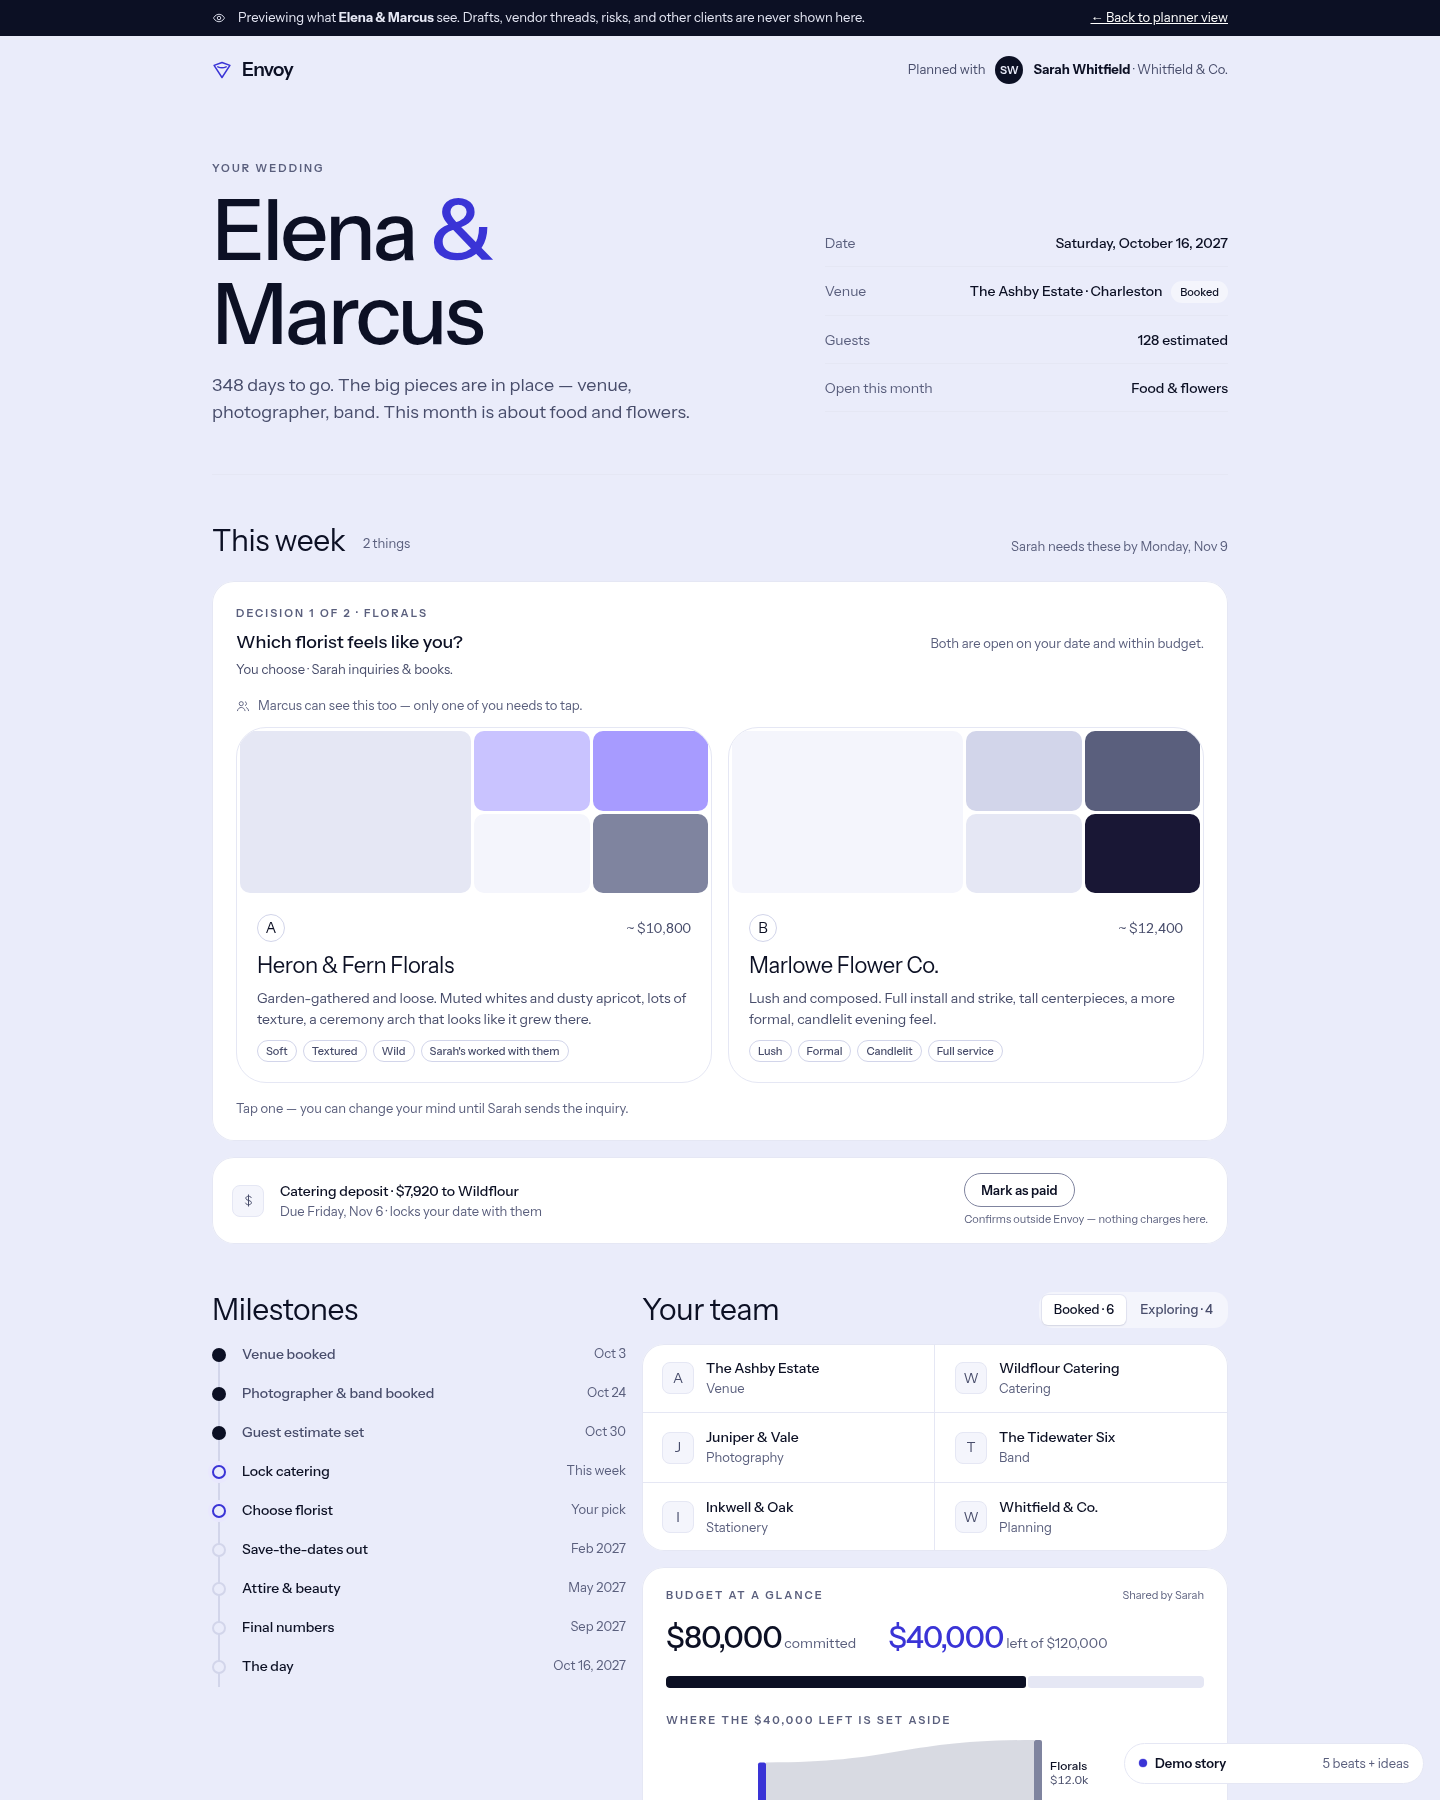
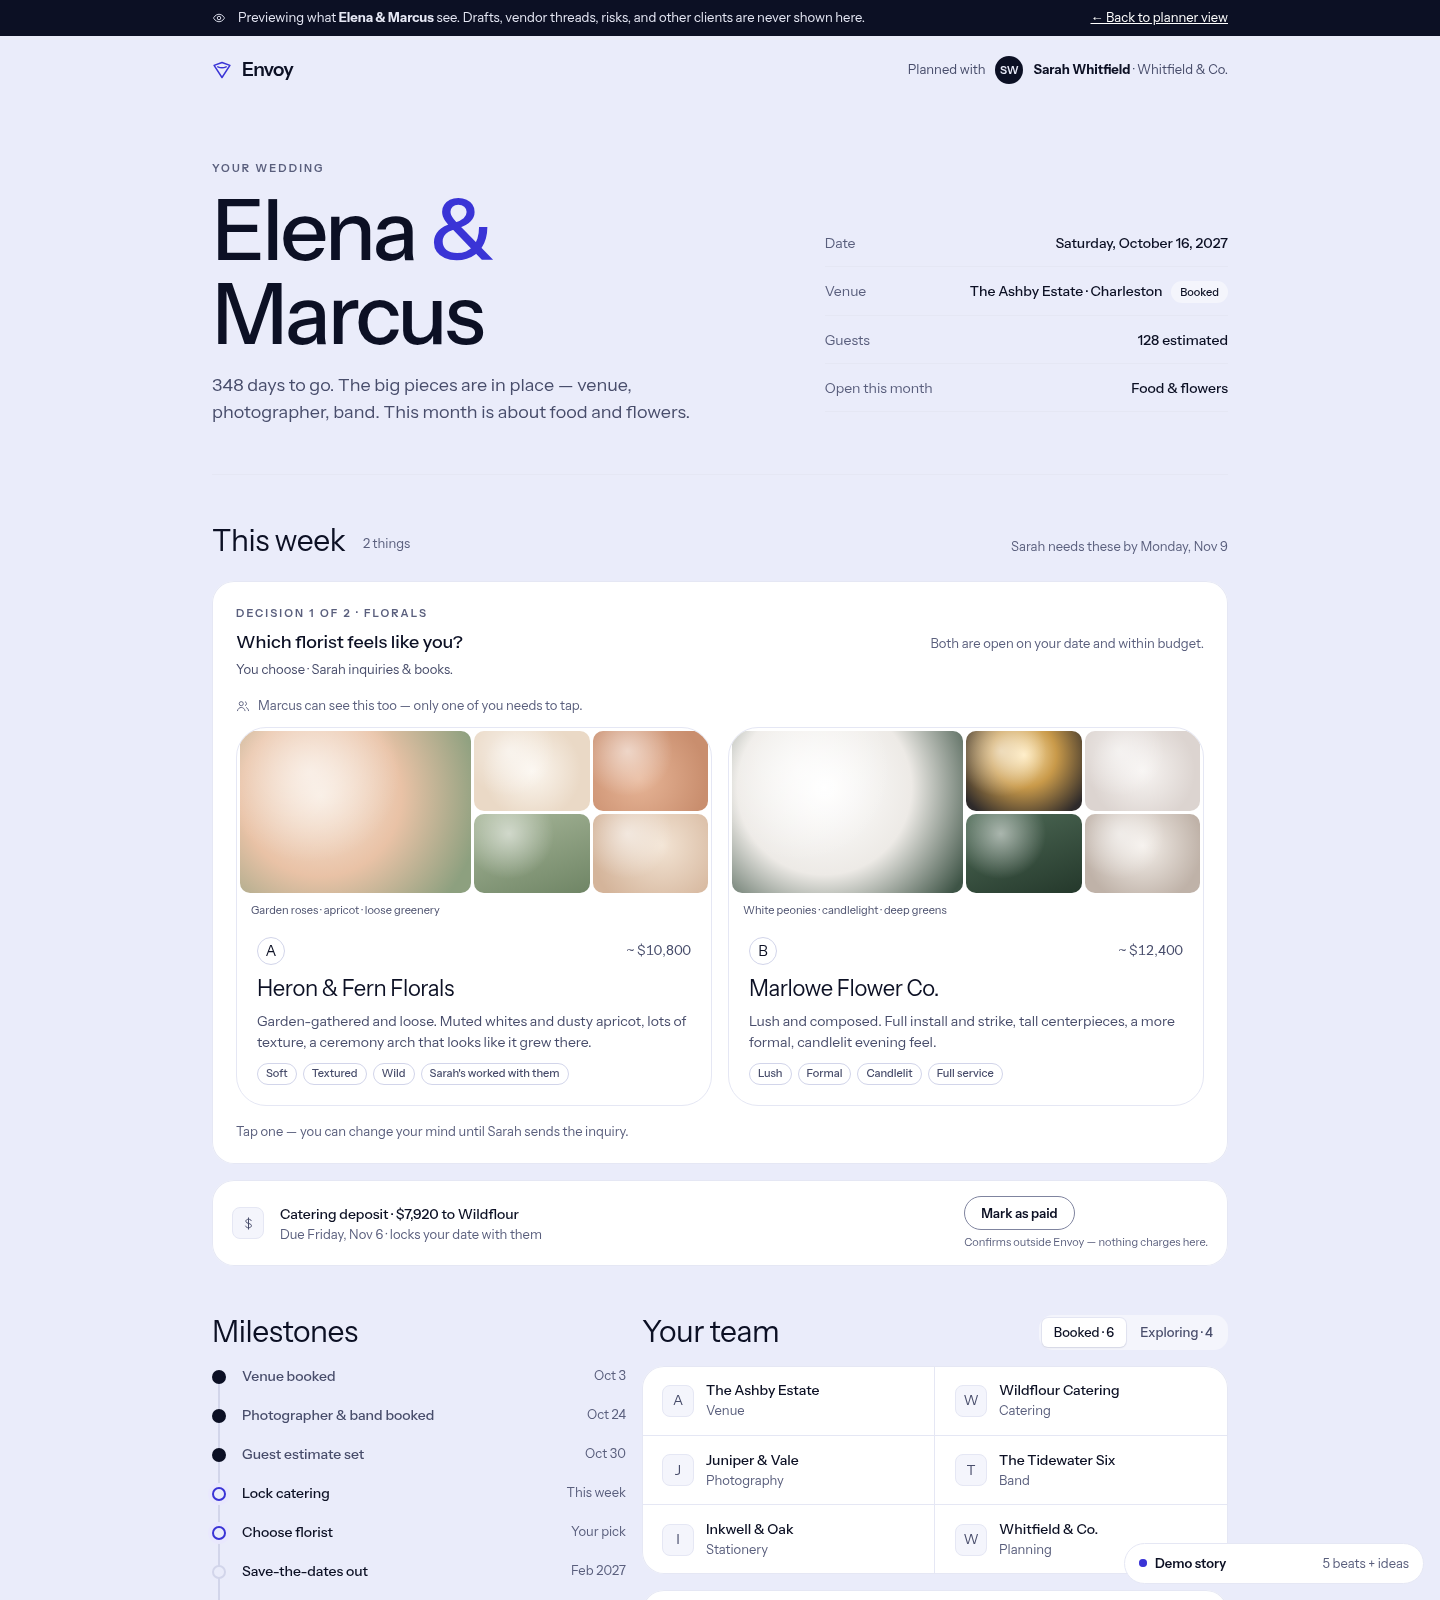
SCRUM-341: finish pass — moodboards, hub, Sankey contrast
Couple portal floral gradient moodboards with captions; landing/hub demo
links; chart-4 indigo-200 and Sankey link default opacity 0.42; STEPS
Finish pass and status colour notes. Preserve Round 2–5 nav.

diff --git a/envoy-2.0-mockups/landing/index.html b/envoy-2.0-mockups/landing/index.html
@@ -776,7 +776,7 @@ body{margin:0}
       <img id="ph-off" src="img/hero-offsite.jpg" alt="A company offsite being set up in a lodge — staff arranging round tables, place cards and a projector screen.">
     </div>
 
-    <div class="util"><a class="btn btn-chip btn-sm" href="#">
+    <div class="util"><a class="btn btn-chip btn-sm" href="../app/overview.html" style="margin-right:8px">Open the demo →</a><a class="btn btn-chip btn-sm" href="../app/portfolio.html">
       <svg viewBox="0 0 24 24" fill="none" aria-hidden="true"><circle cx="12" cy="8.5" r="3.6" stroke="currentColor" stroke-width="2"/><path d="M4.8 20c.9-3.4 3.7-5.3 7.2-5.3s6.3 1.9 7.2 5.3" stroke="currentColor" stroke-width="2" stroke-linecap="round"/></svg>
       Log in</a></div>
 
@@ -875,7 +875,7 @@ body{margin:0}
             <li><svg width="14" height="14" viewBox="0 0 24 24" fill="none" aria-hidden="true"><path d="M5 13l4 4L19 7" stroke="currentColor" stroke-width="2.8" stroke-linecap="round" stroke-linejoin="round"/></svg>Reach out to vendors yourself</li>
             <li><svg width="14" height="14" viewBox="0 0 24 24" fill="none" aria-hidden="true"><path d="M5 13l4 4L19 7" stroke="currentColor" stroke-width="2.8" stroke-linecap="round" stroke-linejoin="round"/></svg>Track every reply in one place</li>
           </ul>
-          <a class="btn btn-secondary btn-md cta" href="#">Get started free</a>
+          <a class="btn btn-secondary btn-md cta" href="waitlist.html">Get started free</a>
         </article>
 
         <article class="tier pop on-dark">
@@ -888,7 +888,7 @@ body{margin:0}
             <li><svg width="14" height="14" viewBox="0 0 24 24" fill="none" aria-hidden="true"><path d="M5 13l4 4L19 7" stroke="currentColor" stroke-width="2.8" stroke-linecap="round" stroke-linejoin="round"/></svg>Pro mode</li>
             <li><svg width="14" height="14" viewBox="0 0 24 24" fill="none" aria-hidden="true"><path d="M5 13l4 4L19 7" stroke="currentColor" stroke-width="2.8" stroke-linecap="round" stroke-linejoin="round"/></svg>Unlimited projects</li>
           </ul>
-          <a class="btn btn-primary btn-md cta" href="#">Choose Pro</a>
+          <a class="btn btn-primary btn-md cta" href="waitlist.html">Choose Pro</a>
         </article>
 
         <article class="tier">
@@ -902,7 +902,7 @@ body{margin:0}
             <li><svg width="14" height="14" viewBox="0 0 24 24" fill="none" aria-hidden="true"><path d="M5 13l4 4L19 7" stroke="currentColor" stroke-width="2.8" stroke-linecap="round" stroke-linejoin="round"/></svg>Multiple seats for your whole team</li>
             <li><svg width="14" height="14" viewBox="0 0 24 24" fill="none" aria-hidden="true"><path d="M5 13l4 4L19 7" stroke="currentColor" stroke-width="2.8" stroke-linecap="round" stroke-linejoin="round"/></svg>Priority vendor responses</li>
           </ul>
-          <a class="btn btn-secondary btn-md cta" href="#">Choose Agency</a>
+          <a class="btn btn-secondary btn-md cta" href="waitlist.html">Choose Agency</a>
         </article>
       </div>
     </div>
@@ -917,7 +917,7 @@ body{margin:0}
         <h2 id="h-biz">Do you want to win more work, without chasing leads?</h2>
         <p>Envoy puts your business in front of potential customers and helps you respond faster than the competition.</p>
         <div class="biz-cta">
-          <a class="btn btn-primary btn-lg" href="#">Join Envoy for Business</a>
+          <a class="btn btn-primary btn-lg" href="waitlist.html">Join Envoy for Business</a>
           <a class="btn btn-secondary btn-lg" href="#pricing">See pricing</a>
         </div>
       </div>
@@ -947,9 +947,10 @@ body{margin:0}
   <span>© 2026 Envoy · Your digital representative for outreach.</span>
   <span>this site was designed by a human.</span>
   <nav aria-label="Footer">
-    <a href="#">Start a project</a>
+    <a href="../app/overview.html">Start a project</a>
     <a href="#pricing">Pricing</a>
     <a href="#biz">For business</a>
+    <a href="waitlist.html">Waitlist</a>
     <a href="#">Privacy</a>
   </nav>
 </footer>
@@ -962,7 +963,7 @@ body{margin:0}
   <header class="top">
     <div class="nav">
       <button class="menu-btn" id="m-menu-btn" type="button" aria-label="Open menu" aria-expanded="false" aria-controls="m-menu"><i></i><i></i></button>
-      <a class="btn btn-chip btn-sm login" href="#">Log in</a>
+      <a class="btn btn-chip btn-sm login" href="../app/overview.html">Open demo</a>
     </div>
     <div class="marquee" aria-hidden="true">
       <div class="marquee-track"><span>Envoy, bringing the joy back to planning.</span><span>Envoy, bringing the joy back to planning.</span></div>
@@ -977,7 +978,7 @@ body{margin:0}
     <a href="#m-start" data-close>Start a project</a>
     <a href="#m-pricing" data-close>Pricing</a>
     <a href="#m-business" data-close>For business</a>
-    <a class="dim" href="#" data-close>Log in</a>
+    <a class="dim" href="../app/overview.html" data-close>Open the demo</a>
     <span class="hint">Tap anywhere to close</span>
   </nav>
 
@@ -1001,9 +1002,9 @@ body{margin:0}
       <p class="biz-p">Envoy puts your business in front of potential customers and helps you respond faster than the competition.</p>
       <div class="deck deck-b" id="m-deck-b" role="button" tabindex="0" aria-describedby="m-biz-live"></div>
       <p class="sr" id="m-biz-live" aria-live="polite"></p>
-      <div class="biz-ctas"><a class="btn btn-primary btn-lg" href="#">Join Envoy for Business</a><a class="btn btn-secondary btn-lg" href="#m-pricing">See pricing</a></div>
+      <div class="biz-ctas"><a class="btn btn-primary btn-lg" href="waitlist.html">Join Envoy for Business</a><a class="btn btn-secondary btn-lg" href="#m-pricing">See pricing</a></div>
       <footer>
-        <nav aria-label="Footer"><a class="hit-extend" href="#m-start">Start a project</a><a class="hit-extend" href="#m-pricing">Pricing</a><a class="hit-extend" href="#m-business">For business</a><a class="hit-extend" href="#">Privacy</a></nav>
+        <nav aria-label="Footer"><a class="hit-extend" href="#m-start">Start a project</a><a class="hit-extend" href="#m-pricing">Pricing</a><a class="hit-extend" href="#m-business">For business</a><a class="hit-extend" href="waitlist.html">Waitlist</a><a class="hit-extend" href="#">Privacy</a></nav>
         <span>© 2026 Envoy · Your digital representative for outreach.</span>
         <span>this site was designed by a human.</span>
       </footer>
@@ -1187,7 +1188,7 @@ body{margin:0}
     var body=el('div','tier-body'); body.id='m-tier-'+t.id;
     body.appendChild(el('p','tier-desc',t.desc));
     var ul=el('ul'); t.feat.forEach(function(f){ ul.appendChild(el('li',null,f)); }); body.appendChild(ul);
-    var cta=el('a','btn btn-md tier-cta',t.cta); cta.href='#start'; body.appendChild(cta);
+    var cta=el('a','btn btn-md tier-cta',t.cta); cta.href='waitlist.html'; body.appendChild(cta);
     row.appendChild(head); row.appendChild(body);
     row.addEventListener('click',function(){ if(open!==t.id){ open=t.id; paintTiers(); } });
     tiersEl.appendChild(row); rows.push({t:t,row:row,head:head,cta:cta});

diff --git a/envoy-2.0-mockups/app/couple-portal.html b/envoy-2.0-mockups/app/couple-portal.html
@@ -33,7 +33,9 @@
   .opt.is-picked { border-color: var(--ink); box-shadow: 0 0 0 1px var(--ink); }
   .opt.is-other { opacity: .55; }
   .mood { height: 168px; display: grid; grid-template-columns: 2fr 1fr 1fr; grid-template-rows: 1fr 1fr; gap: 3px; padding: 3px; }
-  .mood span { border-radius: 10px; }
+  .mood span { border-radius: 10px; position: relative; overflow: hidden; }
+  .mood span::after { content: ""; position: absolute; inset: 0; background: radial-gradient(circle at 30% 25%, rgba(255,255,255,.55), transparent 45%); }
+  .mood-cap { font-size: var(--text-xs, 12px); color: var(--muted); padding: 6px 14px 0; }
   .mood span:first-child { grid-row: span 2; }
   .opt .b { padding: 18px 20px 20px; }
   .opt .letter { font-family: var(--font-display); font-size: 15px; width: 28px; height: 28px; border-radius: 50%; border: 1px solid var(--line-strong); display: inline-grid; place-items: center; }
@@ -100,14 +102,14 @@
       <div class="both"><i data-i="users" data-s="14"></i>Marcus can see this too — only one of you needs to tap.</div>
       <div class="ab">
         <button class="opt" data-pick="Heron &amp; Fern Florals">
-          <div class="mood"><span style="background:#E5E7F4"></span><span style="background:#C9C3FF"></span><span style="background:#A79BFF"></span><span style="background:#F4F5FC"></span><span style="background:#7F849F"></span></div>
+          <div class="mood" role="img" aria-label="Moodboard A: garden roses in muted white and dusty apricot, loose greenery, textured ribbon"><span style="background:radial-gradient(circle at 35% 40%,#F6E6D8,#E9C2A6 45%,#8DA07F 90%)"></span><span style="background:radial-gradient(circle at 50% 50%,#FBF6EF,#EAD9C6 70%)"></span><span style="background:radial-gradient(circle at 40% 60%,#E7B597,#C98E6E 80%)"></span><span style="background:linear-gradient(160deg,#A8B79A,#6F8565)"></span><span style="background:radial-gradient(circle at 60% 40%,#F2E3D3,#D4B49A 85%)"></span></div><div class="mood-cap">Garden roses · apricot · loose greenery</div>
           <div class="b"><div class="row-between"><span class="letter">A</span><span class="num muted">~ $10,800</span></div>
             <h3>Heron &amp; Fern Florals</h3>
             <p class="muted mt-2">Garden-gathered and loose. Muted whites and dusty apricot, lots of texture, a ceremony arch that looks like it grew there.</p>
             <div class="words"><span class="chip chip-outline">Soft</span><span class="chip chip-outline">Textured</span><span class="chip chip-outline">Wild</span><span class="chip chip-outline">Sarah's worked with them</span></div></div>
         </button>
         <button class="opt" data-pick="Marlowe Flower Co.">
-          <div class="mood"><span style="background:#F4F5FC"></span><span style="background:#D2D5EA"></span><span style="background:#5A5F7D"></span><span style="background:#E5E7F4"></span><span style="background:#191735"></span></div>
+          <div class="mood" role="img" aria-label="Moodboard B: lush white peonies and orchids, tall candlelit centerpieces, deep green foliage"><span style="background:radial-gradient(circle at 40% 35%,#FFFFFF,#EDEAE6 50%,#3E5446 95%)"></span><span style="background:radial-gradient(circle at 50% 30%,#FFE9B8,#C99A4A 40%,#2E2A2A 90%)"></span><span style="background:radial-gradient(circle at 50% 50%,#F7F4F2,#DCD4D0 75%)"></span><span style="background:linear-gradient(160deg,#4F6B57,#24382B)"></span><span style="background:radial-gradient(circle at 50% 40%,#F4EFEA,#BFB2A8 80%)"></span></div><div class="mood-cap">White peonies · candlelight · deep greens</div>
           <div class="b"><div class="row-between"><span class="letter">B</span><span class="num muted">~ $12,400</span></div>
             <h3>Marlowe Flower Co.</h3>
             <p class="muted mt-2">Lush and composed. Full install and strike, tall centerpieces, a more formal, candlelit evening feel.</p>

diff --git a/envoy-2.0-mockups/index.html b/envoy-2.0-mockups/index.html
@@ -1,13 +1,15 @@
 <!doctype html>
 <html lang="en"><head><meta charset="utf-8"><meta name="viewport" content="width=device-width, initial-scale=1"><title>Envoy 2.0 mockups</title>
 <link rel="stylesheet" href="assets/tokens.css"><link rel="stylesheet" href="assets/components.css">
-<style>.wrap2{max-width:760px;margin:0 auto;padding:80px 32px}.idx a{display:flex;justify-content:space-between;align-items:baseline;padding:18px 0;border-bottom:1px solid var(--line);text-decoration:none;color:var(--ink)}.idx a:hover .t{color:var(--clay)}.idx .t{font-family:var(--font-display);font-size:24px}.idx .d{color:var(--ink-3);font-size:var(--text-sm)}</style></head>
+<style>.wrap2{max-width:760px;margin:0 auto;padding:80px 32px}.idx a{display:flex;justify-content:space-between;align-items:baseline;padding:18px 0;border-bottom:1px solid var(--line);text-decoration:none;color:var(--ink)}.idx a:hover .t{color:var(--indigo-600)}.idx .t{font-family:var(--font-display);font-size:24px}.idx .d{color:var(--muted);font-size:var(--text-sm)}</style></head>
 <body data-rail="off"><div class="wrap2">
 <div class="eyebrow">SCRUM-341 · static mockups · design system &amp; landing from hello-envoy/envoy-redesign</div>
 <h1 class="display display-3 mt-3">Envoy 2.0</h1>
 <p class="muted mt-3 text-lg">Overview · Contacts · Project, with the Couple portal kept separate. Start with the Overview and follow the demo-story rail in the bottom-right corner.</p>
-<div class="idx mt-8">
+<div class="eyebrow mt-8" style="margin-top:40px">Demo path: Landing → Overview → Contacts → Project → Couple portal</div>
+<div class="idx mt-3">
 <a href="landing/index.html"><span class="t">Landing</span><span class="d">Finished redesign landing · hello-envoy/envoy-redesign</span></a>
+<a href="landing/waitlist.html"><span class="t">Waitlist</span><span class="d">Landing waitlist sign-up (static)</span></a>
 <a href="app/overview.html"><span class="t">Overview</span><span class="d">Countdown, attention, vendors, budget, Sankey</span></a>
 <a href="app/contacts.html"><span class="t">Contacts</span><span class="d">14 types, directory attach, threads, florist radar</span></a>
 <a href="app/project.html"><span class="t">Project</span><span class="d">Milestones, this week, timeline, risks &amp; holds, sheet</span></a>

diff --git a/envoy-2.0-mockups/assets/app.js b/envoy-2.0-mockups/assets/app.js
@@ -182,7 +182,7 @@
       const s = byId[l.source], t = byId[l.target], w = l.value * k;
       const sx = s.x + opt.nodeW, tx = t.x, sy = s.y + s.so, ty = t.y + t.to; s.so += w; t.to += w;
       const mx = (sx + tx) / 2, col = l.color || t.color || css("--chart-4");
-      svg += `<path class="link" d="M${sx},${sy}C${mx},${sy} ${mx},${ty} ${tx},${ty}L${tx},${ty + w}C${mx},${ty + w} ${mx},${sy + w} ${sx},${sy + w}Z" fill="${col}" opacity="${l.opacity || 0.28}"><title>${s.label} → ${t.label}: ${opt.fmt(l.value)}</title></path>`;
+      svg += `<path class="link" d="M${sx},${sy}C${mx},${sy} ${mx},${ty} ${tx},${ty}L${tx},${ty + w}C${mx},${ty + w} ${mx},${sy + w} ${sx},${sy + w}Z" fill="${col}" opacity="${l.opacity || 0.42}"><title>${s.label} → ${t.label}: ${opt.fmt(l.value)}</title></path>`;
     });
     data.nodes.forEach((n) => {
       const v = Math.max(n.inV, n.outV);

diff --git a/envoy-2.0-mockups/assets/tokens.css b/envoy-2.0-mockups/assets/tokens.css
@@ -96,7 +96,7 @@
 
   /* charts: monochrome ink + indigo ramp, remainder = line */
   --chart-1: var(--ink);       --chart-2: var(--indigo-600); --chart-3: var(--indigo-300);
-  --chart-4: var(--line-3);    --chart-5: var(--indigo-100); --chart-6: var(--line-2);
+  --chart-4: var(--indigo-200);    --chart-5: var(--indigo-100); --chart-6: var(--line-2);
   --chart-7: var(--biz);       --chart-8: var(--line);
 
   --font-display: var(--f); --font-sans: var(--f);

diff --git a/envoy-2.0-mockups/STEPS.md b/envoy-2.0-mockups/STEPS.md
@@ -198,4 +198,11 @@ The "Linen" notes in the sections above are history. Where they conflict with th
 - **`design-system/index.html`**: a living page generated from system.css. It shows swatches with contrast, the ramp, type, spacing, the buttons from 07-buttons, the on-dark variants, kit parts, and the check.mjs rules.
 - **`index.html`, `VISION.md`, `DEMO-WALKTHROUGH.md`**: now credit envoy-redesign.
 - **Verified**: served with `python3 -m http.server` and screenshotted in headless Chrome at 1440px into `screenshots/`. No 404s.
-- **Known gap**: the moodboard swatches on the couple portal (florist A/B) were remapped to indigo and greys. They were meant to suggest real flower colours, so they should become photos.
+## Finish pass (Nov 2, 2026)
+
+- **Couple portal florist A/B**: the indigo and grey swatches are now soft gradient tiles that look like photos (roses and apricot with greenery for A; white peonies, candlelight and deep greens for B). These tones belong to the image content and aren't brand colours. They're never the only cue: each moodboard has `role="img"` with descriptive alt text and a visible caption.
+- **Landing links**: an "Open the demo →" chip goes to `../app/overview.html`. "Log in" goes to the portfolio on desktop and the Overview on mobile. "Start a project" in the footer goes to the Overview. The pricing and business CTAs go to `waitlist.html`, and the footer now has a Waitlist link. The layout is unchanged.
+- **Status colours**: the redesign defines only `--error`. In the kit, ok is ink on wash, warn is indigo-700 on indigo-50, and info is muted on wash, and each status always carries a text label. `--risk-soft: #F8E7E6` (error at about 10% on white, used only as a background tint, never for text) is **the only colour the kit adds**.
+- **Sankey**: `--chart-4` is now indigo-200 (it was line-3), and the default link opacity went from 0.28 to 0.42, so the bands read better while staying ink and indigo.
+- **Hub**: shows the demo path. It links the landing page, the waitlist, the design system and all 11 app screens. Hover colour is indigo (it was clay).
+- **Checked**: every local href and src resolves (the only one that doesn't is favicon.ico). I re-took the hub, landing, couple-portal and overview screenshots in headless Chrome.
